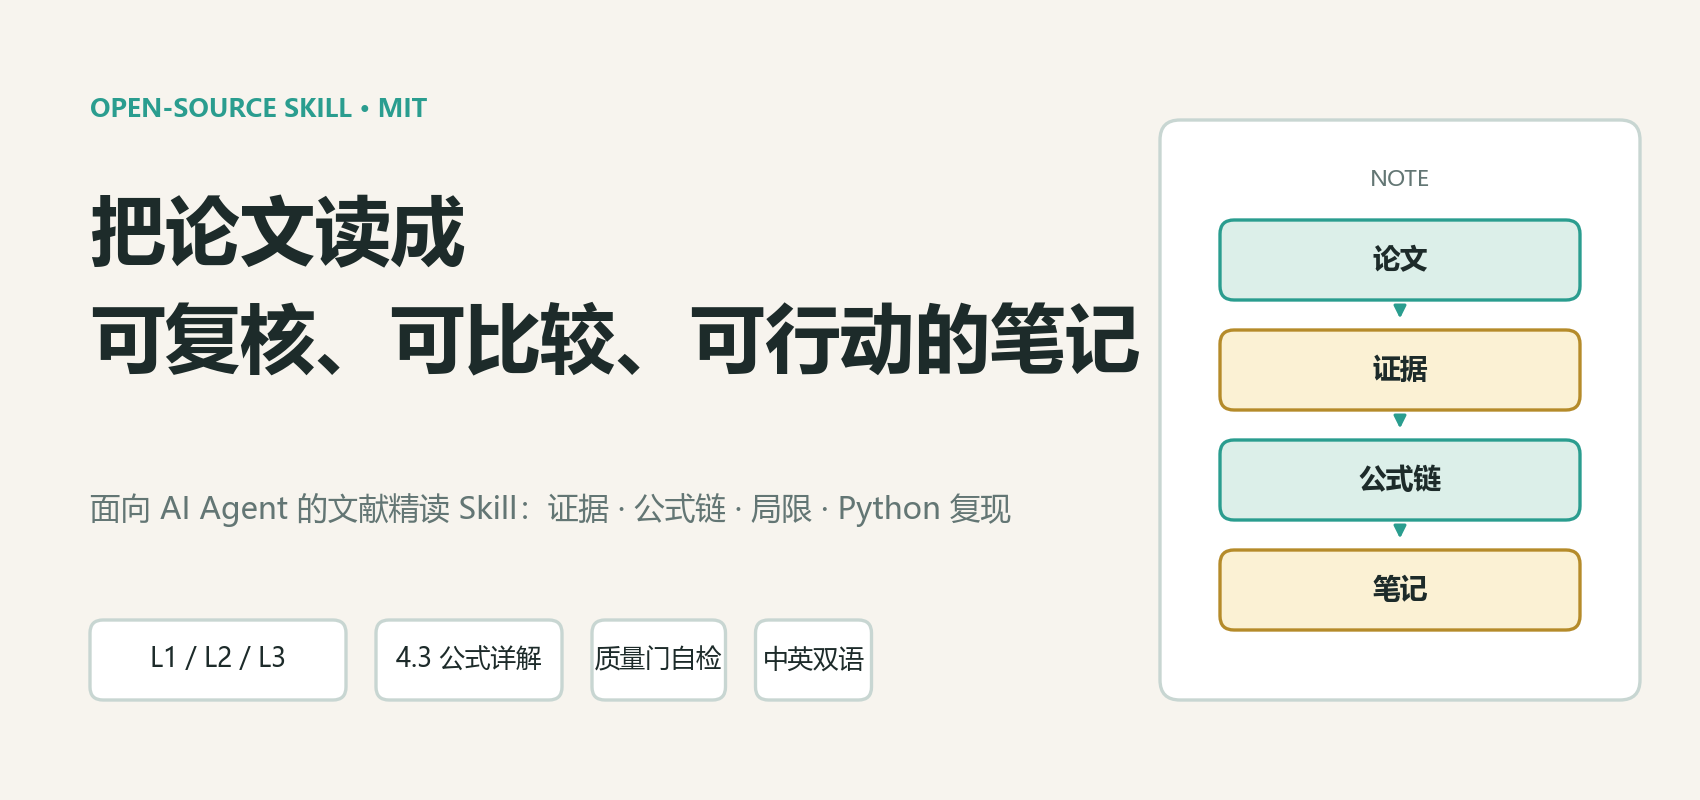
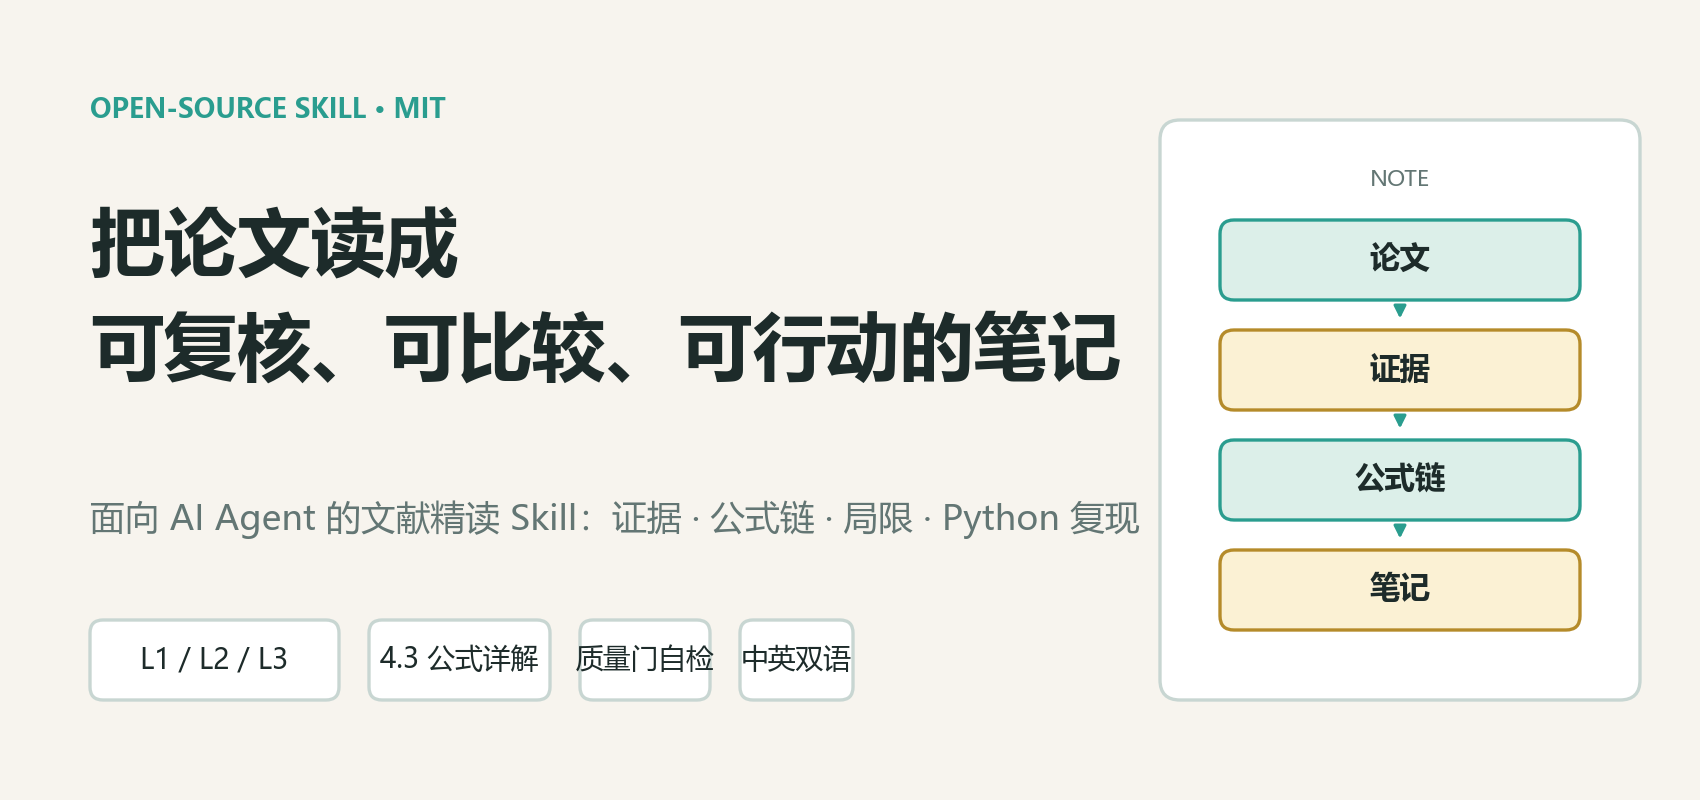
docs: enlarge cover typography and fix diagram overflow

diff --git a/docs/make_figures.py b/docs/make_figures.py
@@ -412,8 +412,8 @@ COVER = {
     "en": {
         "kicker": "OPEN-SOURCE SKILL · MIT",
         "title": "Turn a paper into\na note you can check,\ncompare, and act on",
-        "sub": "A reading skill for AI agents: evidence · chains · limits · Python",
-        "chips": ["L1 / L2 / L3", "4.3 walkthrough", "quality gates", "EN / 中文"],
+        "sub": "A skill for AI agents: evidence · chains · limits · Python",
+        "chips": ["L1 / L2 / L3", "4.3 walkthrough", "quality gates", "EN/ZH"],
         "flow": ["Paper", "Evidence", "Chain", "Note"],
     },
 }
@@ -431,20 +431,20 @@ def cover(lang: str):
         y = 50 - i * 11
         rounded(ax, 122, y, 36, 8, fill=TEAL_L if i % 2 == 0 else YELLOW_L,
                 edge=TEAL if i % 2 == 0 else "#B58B2A", radius=1.4)
-        text(ax, 140, y + 4, s, size=10, weight="bold")
+        text(ax, 140, y + 4, s, size=11, weight="bold")
         if i < 3:
             arrow(ax, 140, y - 0.4, 140, y - 2.4, color=TEAL, lw=1.1, ms=9)
 
-    text(ax, 9, 69, L["kicker"], size=9, color=TEAL, weight="bold", ha="left")
-    text(ax, 9, 51, L["title"], size=27 if lang == "zh" else 23.5,
+    text(ax, 9, 69, L["kicker"], size=9.5, color=TEAL, weight="bold", ha="left")
+    text(ax, 9, 50, L["title"], size=26.5 if lang == "zh" else 24.5,
          weight="bold", ha="left", va="center", linespacing=1.45)
-    text(ax, 9, 29, L["sub"], size=11, color=MUTED, ha="left", linespacing=1.5)
+    text(ax, 9, 28, L["sub"], size=12.5, color=MUTED, ha="left", linespacing=1.5)
 
     x = 9
     for chip in L["chips"]:
-        w = 4.6 + len(chip) * 1.75
+        w = 4.5 + len(chip) * 1.7
         rounded(ax, x, 10, w, 8, fill=WHITE, edge=LINE, radius=1.3)
-        text(ax, x + w / 2, 14, chip, size=9.2, color=INK)
+        text(ax, x + w / 2, 14, chip, size=10.0, color=INK)
         x += w + 3
 
     fig.savefig(OUT / f"cover-{lang}.png", dpi=200, facecolor=BG)
